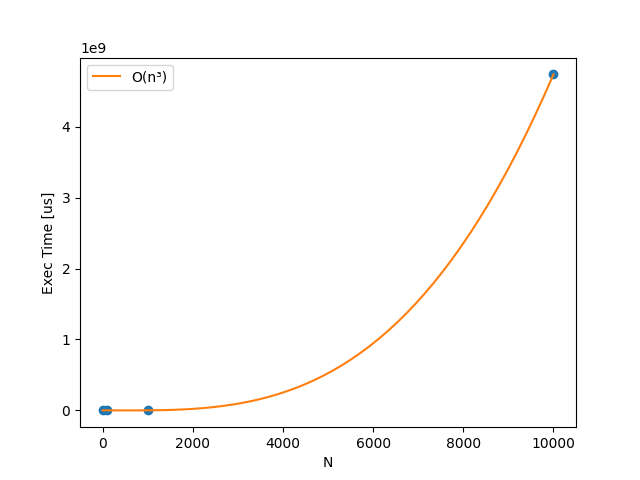
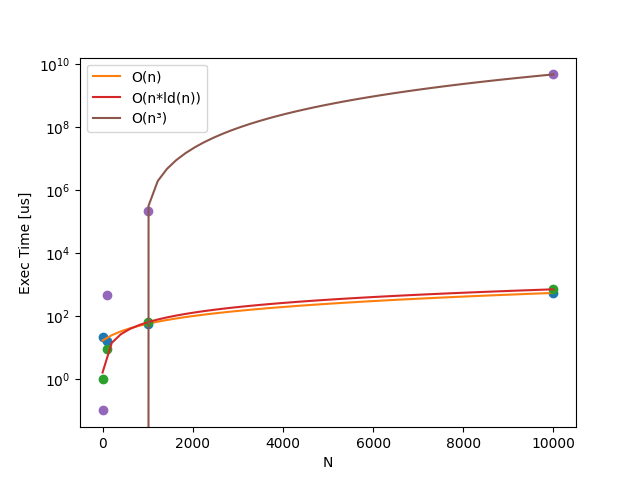
error correction in index

diff --git a/algos/partsum/eval/csv.py b/algos/partsum/eval/csv.py
@@ -12,22 +12,23 @@ data = np.loadtxt(path , delimiter=",")
 
 # y-axis
 N = data[:,0]
-n3 = data[:,1]
-# nldn = data[:,2]
-# n3 = data[:,3]
+n = data[:,1]
+nldn = data[:,2]
+n3 = data[:,3]
 
 x = np.linspace(0,10000)
-# ############## n ###################
-# poly_n = np.polyfit(N,n,2)
-# plt.plot(N,n,'o')
-# trend_n = np.poly1d(poly_n)
-# plt.plot(x,trend_n(x),label='O(n)')
-# ############### nldn #################
-# poly_nldn = np.polyfit(N,nldn,2)
-# plt.plot(N,nldn,'o')
-# trend_nldn = np.poly1d(poly_nldn)
-# plt.plot(x,trend_nldn(x), label='O(n*ld(n))')
-############# n ###################
+
+############## n ###################
+poly_n = np.polyfit(N,n,2)
+plt.plot(N,n,'o')
+trend_n = np.poly1d(poly_n)
+plt.plot(x,trend_n(x),label='O(n)')
+############### nldn #################
+poly_nldn = np.polyfit(N,nldn,2)
+plt.plot(N,nldn,'o')
+trend_nldn = np.poly1d(poly_nldn)
+plt.plot(x,trend_nldn(x), label='O(n*ld(n))')
+############ n ###################
 poly_n3 = np.polyfit(N,n3,3)
 plt.plot(N,n3,'o')
 trend_n3 = np.poly1d(poly_n3)
@@ -35,6 +36,7 @@ plt.plot(x,trend_n3(x),label='O(n³)')
 
 plt.xlabel("N")
 plt.ylabel("Exec Time [us]")
+plt.yscale('log')
 plt.legend()
 plt.savefig('title.png')
 plt.show()

diff --git a/algos/partsum/n3/src/main.rs b/algos/partsum/n3/src/main.rs
@@ -22,10 +22,10 @@ fn calc_partsum(v: &Vec<i8>, sub: &mut Subset)
     let n = v.len();
     let mut max : i32 = -128;
 
-    for i in 1..n-1 {
+    for i in 0..n-1 {
         for j in i..n-1 {
             sub.sum = 0;
-            for k in i..j {
+            for k in i..j+1 {
                 sub.sum += <i8 as Into<i32>>::into(v[k]);
             }
             if sub.sum > max {
@@ -40,18 +40,16 @@ fn calc_partsum(v: &Vec<i8>, sub: &mut Subset)
 
 fn main() 
 {
-    let mut v: Vec<i8> = Vec::new();
     // let args: Vec<String> = env::args().collect();
     // let path = &args[1];
     let mut paths : Vec<String> = Vec::new();
     for i in 0..4 {
         let s = format!("../../../../input/seq{}.txt", i);
         paths.push(s);
-    };
-
-
+    }
 
     for path in paths.iter() {
+        let mut v: Vec<i8> = Vec::new();
         let mut cnt : i32 = 0;
         let mut sub = Subset{ sum:0, left:0, right :0 }; 
         read_seq(&mut v, path, &mut cnt); 

diff --git a/algos/partsum/nldn/src/main.rs b/algos/partsum/nldn/src/main.rs
@@ -68,7 +68,6 @@ fn calc_partsum(z:&Vec<i8>, l:usize, r:usize) -> Rets
 
 fn main() 
 {
-    let mut z: Vec<i8> = Vec::new();
     // let args: Vec<String> = env::args().collect();
     // let path = &args[1];
     let mut paths : Vec<String> = Vec::new();
@@ -78,6 +77,7 @@ fn main()
     };
 
     for path in paths.iter() {
+        let mut z: Vec<i8> = Vec::new();
         let mut cnt : i32 = 0;
         // read_seq(&mut z, path.to_string()); 
         read_seq(&mut z, path, &mut cnt); 
